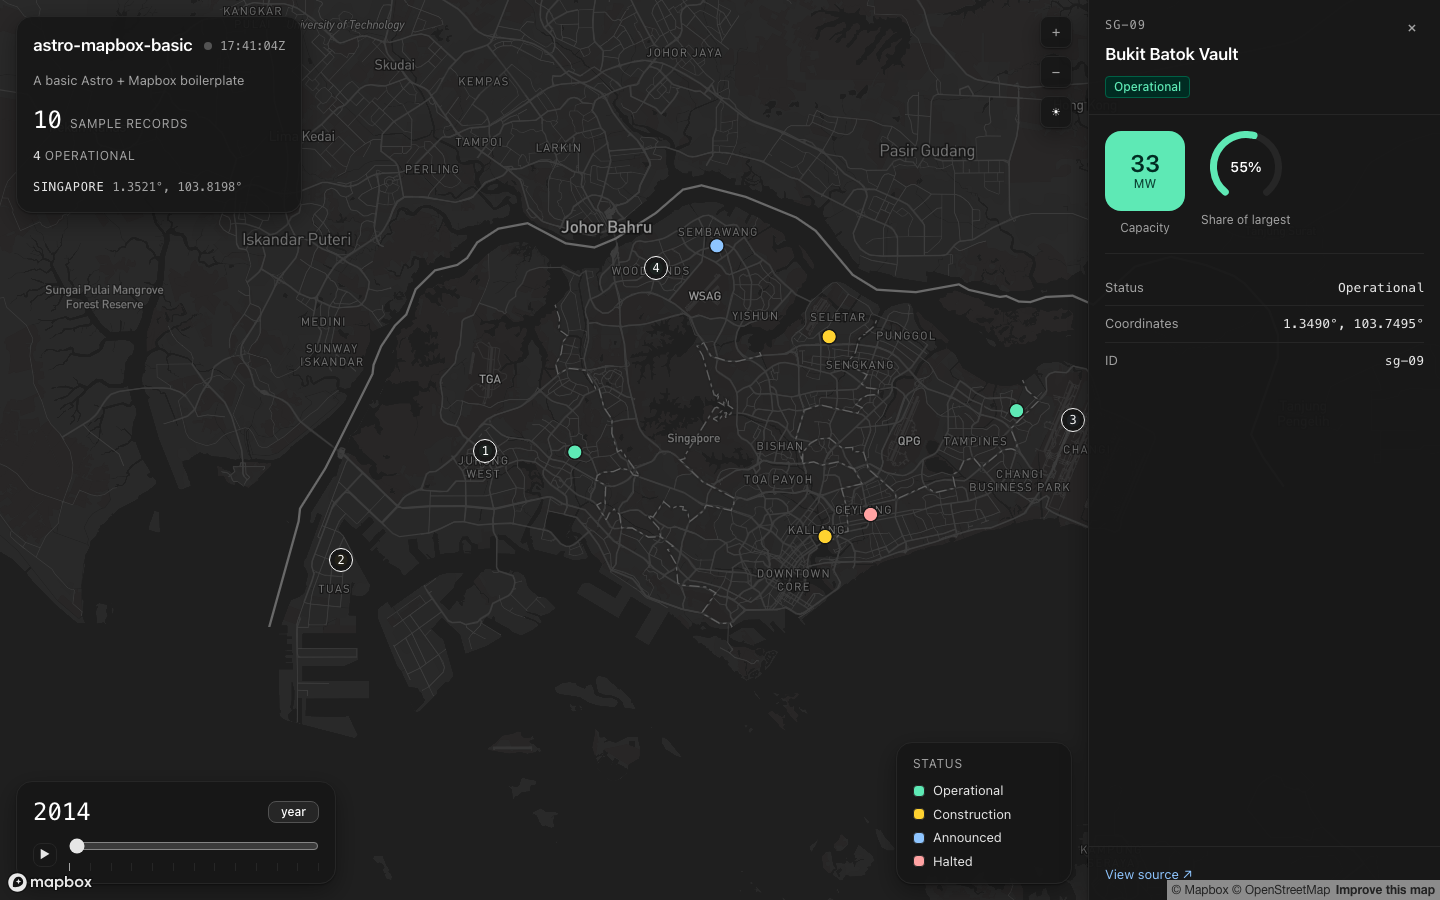
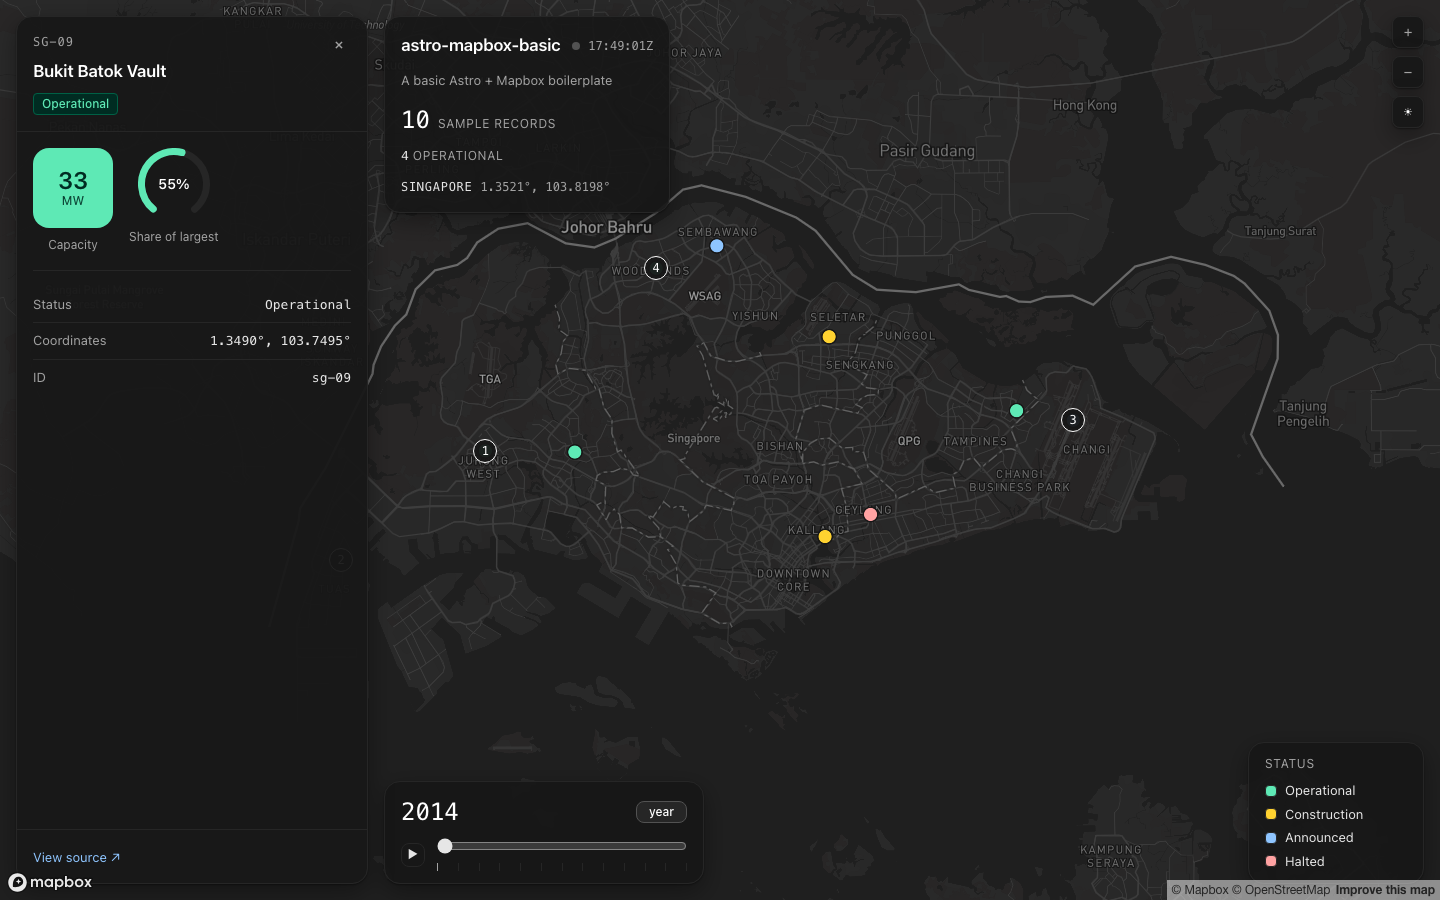
feat: detail sidebar moves left as a floating panel
1rem clear of top, bottom and left; 1rem radius on all corners; full map
height. Left-anchored chrome (headline, time panel) glides right to clear
it via --chrome-inset-left. Mobile stays a bottom sheet, also inset.

diff --git a/src/components/kit/DetailSidebar.css b/src/components/kit/DetailSidebar.css
@@ -1,23 +1,24 @@
 .kit-detail {
   position: absolute;
-  top: 0;
-  right: 0;
-  bottom: 0;
+  /* Floating panel, not a flush drawer: 1rem clear of the top, bottom and left
+     so the map reads as continuous underneath it. */
+  top: var(--s4);
+  bottom: var(--s4);
+  left: var(--s4);
   width: var(--detail-width);
-  max-width: 100vw;
+  max-width: calc(100vw - var(--s8));
   display: flex;
   flex-direction: column;
 
   background-color: var(--glass-strong);
   backdrop-filter: blur(var(--glass-blur)) saturate(1.4);
   -webkit-backdrop-filter: blur(var(--glass-blur)) saturate(1.4);
-  border-left: 1px solid var(--stroke);
+  border: 1px solid var(--stroke);
+  border-radius: var(--radius-2xl);
   box-shadow: var(--glass-shadow);
+  overflow: hidden;
 
-  padding-top: var(--safe-top);
-  padding-bottom: var(--safe-bottom);
-
-  transform: translateX(100%);
+  transform: translateX(calc(-100% - var(--s8)));
   opacity: 0;
   visibility: hidden;
   transition:
@@ -111,13 +112,13 @@
   /* Mobile: a bottom sheet, not a side panel. */
   .kit-detail {
     top: auto;
-    left: 0;
+    left: var(--s2);
+    right: var(--s2);
+    bottom: var(--s2);
     width: auto;
+    max-width: none;
     max-height: 62vh;
-    border-left: 0;
-    border-top: 1px solid var(--stroke);
-    border-radius: var(--radius-panel) var(--radius-panel) 0 0;
-    transform: translateY(100%);
+    transform: translateY(calc(100% + var(--s4)));
   }
   .kit-detail[data-open="true"] { transform: translateY(0); }
 }

diff --git a/src/components/map/MapRoot.tsx b/src/components/map/MapRoot.tsx
@@ -10,7 +10,9 @@ export type MapRootProps = {
   zoom?: number;
   children?: ReactNode;
   onReady?: (map: mapboxgl.Map) => void;
-  /** CSS length the right-anchored chrome should clear, e.g. an open sidebar. */
+  /** CSS length the left-anchored chrome should clear, e.g. an open sidebar. */
+  insetLeft?: string;
+  /** CSS length the right-anchored chrome should clear. */
   insetRight?: string;
 };
 
@@ -19,6 +21,7 @@ export function MapRoot({
   zoom = 10.5,
   children,
   onReady,
+  insetLeft = '0px',
   insetRight = '0px',
 }: MapRootProps) {
   const container = useRef<HTMLDivElement>(null);
@@ -85,7 +88,10 @@ export function MapRoot({
       )}
       <div
         className="map-root__chrome"
-        style={{ ['--chrome-inset-right' as string]: insetRight }}
+        style={{
+          ['--chrome-inset-left' as string]: insetLeft,
+          ['--chrome-inset-right' as string]: insetRight,
+        }}
       >
         {children}
       </div>

diff --git a/src/components/kit/TimePanel.css b/src/components/kit/TimePanel.css
@@ -1,4 +1,4 @@
-.kit-time { position: absolute; bottom: var(--s4); left: var(--s4); padding: var(--s3) var(--s4); min-width: 20rem; display: flex; flex-direction: column; gap: var(--s2); }
+.kit-time { position: absolute; bottom: var(--s4); left: calc(var(--s4) + var(--chrome-inset-left, 0px)); transition: left var(--t-slow) var(--ease); padding: var(--s3) var(--s4); min-width: 20rem; display: flex; flex-direction: column; gap: var(--s2); }
 .kit-time__head { display: flex; align-items: center; justify-content: space-between; gap: var(--s3); }
 .kit-time__value { font-size: var(--text-xl); color: var(--ink-max); }
 .kit-time__controls { display: flex; align-items: center; gap: var(--s3); }

diff --git a/src/components/map/HelloMap.tsx b/src/components/map/HelloMap.tsx
@@ -54,7 +54,7 @@ export function HelloMap() {
   const maxValue = Math.max(...features.map((f) => f.value ?? 0), 1);
 
   return (
-    <MapRoot onReady={handleReady} insetRight={selected ? 'var(--detail-width)' : '0px'}>
+    <MapRoot onReady={handleReady} insetLeft={selected ? 'calc(var(--detail-width) + var(--s4))' : '0px'}>
       <FeaturesLayer map={map} features={features} palette={palette} onSelect={setSelected} />
 
       <HeadlineBlock title="astro-mapbox-basic" subline="A basic Astro + Mapbox boilerplate" live>

diff --git a/src/theme/tokens.css b/src/theme/tokens.css
@@ -188,8 +188,9 @@
   --sidebar-width-icon: 4rem;
   --detail-width: 22rem;
 
-  /* Right-anchored chrome adds this, so panels slide clear of an open sidebar
-     instead of hiding behind it. MapRoot sets it; default 0 means no shift. */
+  /* Chrome adds these so panels slide clear of an open sidebar instead of
+     hiding behind it. MapRoot sets them; default 0 means no shift. */
+  --chrome-inset-left: 0px;
   --chrome-inset-right: 0px;
 
   --ease:   cubic-bezier(0.22, 1, 0.36, 1);

diff --git a/src/components/kit/HeadlineBlock.css b/src/components/kit/HeadlineBlock.css
@@ -1,7 +1,8 @@
 .kit-headline {
   position: absolute;
   top: var(--s4);
-  left: var(--s4);
+  left: calc(var(--s4) + var(--chrome-inset-left, 0px));
+  transition: left var(--t-slow) var(--ease);
   padding: var(--s4);
   max-width: 24rem;
   display: flex;
